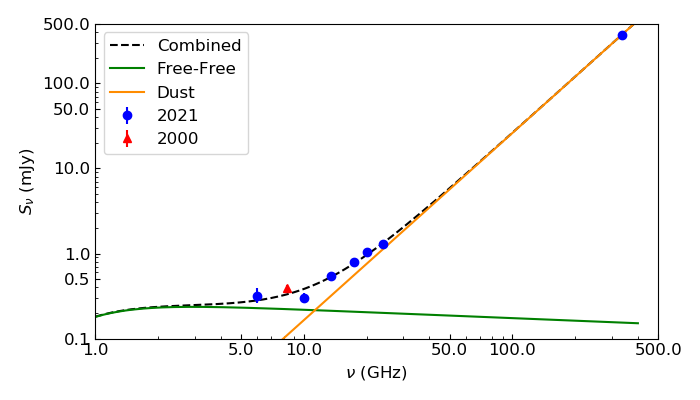
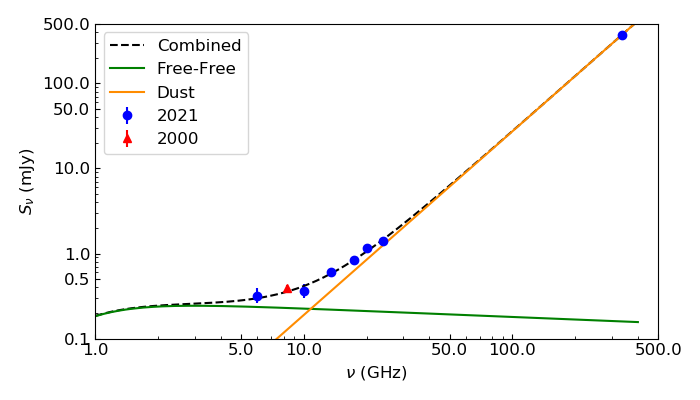
Fixed values for L1551 NE to use same beam for each frequency

diff --git a/spectrum/spectrum_L1551_NE_B_ff_spec_fit_fixed_T.py b/spectrum/spectrum_L1551_NE_B_ff_spec_fit_fixed_T.py
@@ -38,8 +38,8 @@ def combined_power_law_fit(freq, alpha_high, K_2, K_3):
 # Flux values
 #flux = np.array([0.15, 0.17, 0.28, 0.34, 0.44, 0.49, 2.95, 3.69, 207.0])
 #flux_err = np.array([0.03, 0.05, 0.02, 0.02, 0.03, 0.03, 0.05, 0.07, 22.0])
-flux = np.array([0.15, 0.17, 0.28, 0.34, 0.44, 0.49, 207.0])
-flux_err = np.array([0.03, 0.05, 0.02, 0.02, 0.03, 0.03, 22.0])
+flux = np.array([0.15, 0.17, 0.32, 0.40, 0.52, 0.61, 207.0])
+flux_err = np.array([0.03, 0.05, 0.02, 0.02, 0.03, 0.04, 22.0])
 
 # Flux values from Reipurth et al. (2002)
 flux_2000 = np.array([0.27])

diff --git a/spectrum/spectrum_L1551_NE_A_ff_spec_fit_fixed_T.py b/spectrum/spectrum_L1551_NE_A_ff_spec_fit_fixed_T.py
@@ -36,8 +36,8 @@ def combined_power_law_fit(freq, alpha_high, K_2, K_3):
         return log_flux
 
 # Flux values
-flux = np.array([0.32, 0.30, 0.55, 0.79, 1.04, 1.31, 372.0])
-flux_err = np.array([0.06, 0.03, 0.02, 0.02, 0.04, 0.05, 15.0])
+flux = np.array([0.32, 0.36, 0.60, 0.83, 1.16, 1.42, 372.0])
+flux_err = np.array([0.06, 0.06, 0.02, 0.02, 0.03, 0.04, 15.0])
 
 # Flux values from Reipurth et al. (2002)
 flux_2000 = np.array([0.39])
